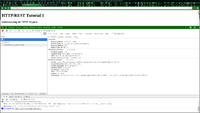
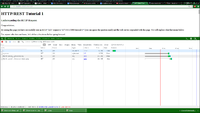
First draft of tutorial 1.

diff --git a/templates/tutorial_1.html b/templates/tutorial_1.html
@@ -2,7 +2,7 @@
 {% block body %}
 <h3>Understanding the HTTP Request</h3>
 
-<p>Congradulations, </p>
+<p>Congratulations, </p>
 <p>By seeing this page you have successfully sent an HTTP 'GET' request to '{{request.host+request.full_path}}' (you can ignore the question mark) and the web server responded with this page. We will explore what that means below.</p>
 
 <p>For anyone who does not know, let's define a few terms before going forward.</p>
@@ -36,21 +36,41 @@
 
 <p><strong>Follow along as we inspect the http requests that made this page possible.</strong></p>
 
-<p>If you are in Firefox or Google Chrome, <em class="tut_action">hit the F12 key</em> to open up the Inspector window. The Inspecter pane should appear in the bottom of your browser. <em class="tut_action">Click the <strong>Network</strong></em> tab to open the Network Inspecter.</p>
+<p>If you are in Firefox or Google Chrome, <em class="tut_action">hit the F12 key</em> to open up the Inspector pane1. The Inspecter pane should appear in the bottom of your browser. <em class="tut_action">Click the <strong>Network</strong> tab</em> to open the Network Inspecter.</p>
 
 <p>The Network Inspecter will be blank. The Network Inspecter has to be on to monitor HTTP activity, so it did not catch when you first loaded the page. We can get it to intercept the message by simply refreshing the page. Once that is done you should see something like the following (You might want to open it in a new tab):</p>
 <a href="/static/tutorial_1_inspector.png"><img src="/static/thumb.tutorial_1_inspector.png"/></a>
 
-<p>In the network inspector you should be able to see three requests for this page.</p>
+<p>In the network inspector you should be able to see four requests for this page.</p>
 <ul>
   <li><strong>1</strong> - This page</li>
   <li><strong>style.css</strong> - Style sheet information to make things look pretty</li>
   <li><strong>thumb.tutorial_1_inspector.png</strong> - The previous image</li>
+  <li><strong>thumb.tutorial_1_inspector_details.png</strong> - The Next image</li>
 </ul>
-<p>The presense of 3 requests may seem odd, after all we only loaded one web page. But the page we loaded was html! Hypertext documents can link to other resources (images, etc) and the browser will go get them for the page. The server does not send you all the resources at once. The browser goes and fetches each resource which allows a page to be made of resources from multiple websited.
+<p>The presence of 4 requests may seem odd, after all we only loaded one web page. But the page we loaded was html! Hypertext documents can link to other resources (images, etc) and the browser will go get them for the page. The server does not send you all the resources at once. The browser goes and fetches each resource which allows a page to be made of resources from multiple web servers. (If you want to view the HTML that produced the page you can at any time by pressing CTRL+U.)</p>
 
-  If you want to view the HTML that produced the page you can at any time by pressing CTRL+U.) It may seem counter intuative, but the webserver does not send all the images at the same time it sends the page. The browser is responsible for determining what additional resources the HTML file needs and then fetching each of them.</p>
+<p>It may seem counter intuitive, but the webserver does not send all the images at the same time it sends the page. The browser is responsible for determining what additional resources the HTML file needs and then fetching each of them.</p>
 
+<p>Clicking any of the entries in the the Network Inspecter will show more details about that request. Go ahead and <em class="tut_action">click the entry labeled '1'</em>. (Note that the entry appears as '1' because that is the last part of the URL.) The Inspecter should look like this.</p>
+<a href="/static/tutorial_1_inspector_details.png"><img src="/static/thumb.tutorial_1_inspector_details.png"/></a>
 
-<p>Clicking any of the entries in the table will show more details about that request.</p>
+<p>In the header's tab for the request we see information for General, Response Headers, and Request Headers. This data is the parsed headers. <em class="tut_action">Read over the headers</em> to see what type of data is sent with each message. Note that though Status Code appears in General, it is actually part of the Response Header, just as the URL and HTTP Method are really part of the Request header. They are just always there so they get pulled into their own listing.</p>
+<p>You should be able to see headers like "Content-Type" which tells the browser the format of the data being sent. If you check the "Content-Type" of one of the images that were transferred, you will see it has a different value. There is a header in Response for "Server", and a header in Request called "User-Agent"; These contain the name of the server's software (This site is running in a server called Werkzeug) and the name of your browser respectively.</p>
+
+<p>Headers can be named anything. But certain software expects there to be certain entries for things to work properly. We can also put a nearly unlimited number of header entries in each message, though in practice there are only several.</p>
+
+<p>Lastly, clicking on the Preview tab for request '1' will show you the html that was sent. The preview tab for images will show the image preview.</p>
+
+<h3>Closing</h3>
+<p>Hopefully this page has shed some light on the inner workings of the common act of opening a web page. </p>
+<p>You should have a basic grasp on:</p>
+<ul>
+  <li>HTTP transactions are a Request and a Response.</li>
+  <li>Headers describe data about the document being requested or returned.</li>
+  <li>How to view header information through your browser.</li>
+</ul>
+
+{% include "tutorial_nav.html" %}
+
 {% endblock %}

diff --git a/templates/tutorial_nav.html b/templates/tutorial_nav.html
@@ -1,0 +1,12 @@
+{% if tut_num != 1 %}
+<a href="/tutorial/{{tut_num-1}}">&lt;-PREV</a>
+{% else %}
+<strong>FIRST</strong>
+{% endif %}
+
+
+{% if is_not_last %}
+<a href="/tutorial/{{tut_num+1}}">NEXT-&gt;</a>
+{% else %}
+<strong>END</strong>
+{% endif %}

diff --git a/templates/tutorial_2.html b/templates/tutorial_2.html
@@ -1,0 +1,7 @@
+{% extends "tutorial_layout.html" %}
+{% block body %}
+<h3>Not sure yet.</h3>
+
+{% include "tutorial_nav.html" %}
+
+{% endblock %}

diff --git a/main.py b/main.py
@@ -2,6 +2,7 @@
 
 from flask import Flask, render_template, request, redirect
 from flask.ext.sqlalchemy import SQLAlchemy
+from os import path
 
 """Every library has some form of suggested startup.
    Here is Flask's http://flask.pocoo.org/docs/0.10/quickstart/"""
@@ -120,7 +121,12 @@ def tutorials_view():
 
 @app.route("/tutorial/<int:tut_num>")
 def tutorial_view(tut_num):
-    return render_template("tutorial_%d.html"%tut_num, tut_num=tut_num)
+    """from bs4 import BeautifulSoup
+    soup = BeautifulSoup(render_template("tutorial_%d.html"%tut_num, tut_num=tut_num),
+                         'html.parser')
+    return soup.prettify()"""
+    return render_template("tutorial_%d.html"%tut_num, tut_num=tut_num,
+                           is_not_last=path.isfile("templates/tutorial_%d.html"%(tut_num+1)))
 
 
 #http://stackoverflow.com/questions/419163/what-does-if-name-main-do
